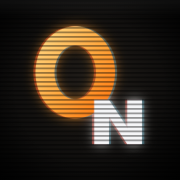
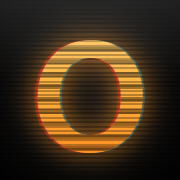
feat: 랜딩 배경(CRT 고전 게임 콜라주), 로고 O에 CRT 효과, 아이콘을 같은 O로, 드라이브 다시 연결은 계정 메뉴로
- 첫 화면 배경: 직접 그린 고전 게임 장르 화면 콜라주(public/landing-bg.jpg, 원본 scripts/art)를 어둡고 흐리게
- 로고 O: 주황 + 주사선·빛 번짐·RGB 어긋남. 파비콘·홈 화면 아이콘도 같은 글꼴의 O를 찍은 PNG (옛 SVG 삭제)
- 헤더의 드라이브 연결 칩 제거, 연결이 끊겼을 때만 계정 메뉴에 "드라이브 다시 연결"

diff --git a/scripts/art/landing-collage.html b/scripts/art/landing-collage.html
@@ -1,0 +1,130 @@
+<!doctype html>
+<html><head><meta charset="utf-8"><style>html,body{margin:0;background:#000}canvas{display:block}</style></head>
+<body><canvas id="out" width="1920" height="1200"></canvas>
+<script>
+// 랜딩 배경 콜라주: 고전 게임 장르를 떠올리게 하는 화면을 직접 그린다 (실제 게임 화면은 저작권 때문에 쓰지 않는다).
+// 각 화면은 160×120 저해상도로 그린 뒤 정수배로 키우고 CRT(주사선, RGB 어긋남, 가장자리 어둡게, 둥근 모서리)를 씌운다.
+let seed = 7;
+const rnd = () => ((seed = (seed * 16807) % 2147483647) / 2147483647);
+const W = 160, H = 120;
+const scene = (draw) => { const c = document.createElement("canvas"); c.width = W; c.height = H; const g = c.getContext("2d"); g.imageSmoothingEnabled = false; draw(g); return c; };
+const rect = (g, c, x, y, w, h) => { g.fillStyle = c; g.fillRect(x, y, w, h); };
+const sprite = (g, rows, x, y, pal) => rows.forEach((r, j) => [...r].forEach((ch, i) => ch !== "." && rect(g, pal[ch], x + i, y + j, 1, 1)));
+
+// 특정 게임 캐릭터를 닮지 않게: 갈색 머리, 청록 옷의 모험가
+const HERO = ["..hhhh..", ".hhhhhh.", ".hsskss.", ".hsssss.", "..ssss..", ".tttttt.", "tttyyttt", "ss.tt.ss", "..pppp..", ".pp..pp."];
+const SHIP = ["....w....", "...wcw...", "...wcw...", "..wwcww..", ".wwrcrww.", "wwwwwwwww", "w.y...y.w"];
+// 적: 둥근 몸에 눈 하나인 해파리
+const ALIEN = ["...ggg...", ".ggggggg.", "gggwwwggg", "ggwwkwwgg", "gggwwwggg", ".ggggggg.", ".g.g.g.g.", "g..g.g..g"];
+
+const scenes = [
+  // 1. 가로 스크롤 플랫포머: 하늘, 구름, 벽돌 땅, 떠 있는 블록, 동전, 주인공
+  scene((g) => {
+    rect(g, "#5c94fc", 0, 0, W, H);
+    for (const [x, y] of [[18, 18], [96, 10], [130, 30]]) { rect(g, "#fff", x, y, 22, 6); rect(g, "#fff", x + 4, y - 4, 12, 4); }
+    rect(g, "#3cbc1c", 0, 86, 50, 6); rect(g, "#2a8c10", 10, 80, 26, 6);
+    for (let x = 0; x < W; x += 8) for (let y = 96; y < H; y += 8) { rect(g, "#c84c0c", x, y, 8, 8); rect(g, "#6b2304", x, y + 7, 8, 1); rect(g, "#6b2304", x + ((y / 8) % 2 ? 0 : 4), y, 1, 8); }
+    for (const x of [60, 68, 76, 84]) { rect(g, "#c84c0c", x, 60, 8, 8); rect(g, "#6b2304", x, 67, 8, 1); }
+    rect(g, "#fc9838", 72, 60, 8, 8); rect(g, "#000", 75, 62, 2, 4);
+    for (const x of [100, 110, 120]) { rect(g, "#fcbc3c", x, 74, 4, 6); rect(g, "#fff", x + 1, 75, 1, 3); }
+    sprite(g, HERO, 30, 86, { h: "#7c4c1c", s: "#fcb468", k: "#000", t: "#1c9c8c", y: "#fcd83c", p: "#3c3c5c" });
+    rect(g, "#00a800", 136, 72, 18, 24); rect(g, "#00d800", 134, 68, 22, 8);
+  }),
+  // 2. 세로 슈팅: 별, 적 편대, 탄, 플레이어 기체
+  scene((g) => {
+    rect(g, "#000018", 0, 0, W, H);
+    for (let i = 0; i < 70; i++) rect(g, rnd() > 0.7 ? "#fff" : "#6070a0", (rnd() * W) | 0, (rnd() * H) | 0, 1, 1);
+    for (let r = 0; r < 3; r++) for (let c = 0; c < 6; c++) sprite(g, ALIEN, 22 + c * 20, 12 + r * 14, { g: ["#3cfc3c", "#fc3cfc", "#3cdcfc"][r], w: "#fff", k: "#000" });
+    for (let i = 0; i < 5; i++) rect(g, "#fcfc54", 40 + i * 22, 62 + (i % 3) * 8, 1, 4);
+    rect(g, "#fc5454", 76, 80, 2, 5);
+    sprite(g, SHIP, 72, 100, { w: "#dcdcdc", c: "#3c8cfc", r: "#fc3c3c", y: "#fcbc00" });
+  }),
+  // 3. RPG 필드: 풀, 강, 숲, 길, 마을, 용사
+  scene((g) => {
+    rect(g, "#3c9c3c", 0, 0, W, H);
+    for (let i = 0; i < 120; i++) rect(g, "#58b858", (rnd() * W) | 0, (rnd() * H) | 0, 2, 1);
+    for (let y = 0; y < H; y++) rect(g, "#2c58d8", 98 + Math.round(Math.sin(y / 9) * 6), y, 18, 1);
+    for (let y = 0; y < H; y += 3) rect(g, "#6c8cfc", 102 + Math.round(Math.sin(y / 9) * 6), y, 4, 1);
+    rect(g, "#c8a058", 0, 58, 104, 8); rect(g, "#a07838", 96, 56, 26, 12);
+    for (let i = 0; i < 16; i++) { const x = 6 + (i % 8) * 10, y = 8 + ((i / 8) | 0) * 12; rect(g, "#105810", x, y, 9, 8); rect(g, "#1c7c1c", x + 1, y + 1, 7, 5); rect(g, "#5c3410", x + 4, y + 8, 2, 3); }
+    for (const [x, y] of [[126, 20], [142, 20], [134, 36]]) { rect(g, "#c84c0c", x, y, 12, 6); rect(g, "#fcfcfc", x + 1, y + 6, 10, 8); rect(g, "#5c3410", x + 5, y + 10, 3, 4); }
+    sprite(g, ["..yy..", ".yssy.", ".ssss.", "bbbbbb", "sbbbbs", ".b..b."], 52, 52, { y: "#fcd800", s: "#fcb468", b: "#d82800" });
+    rect(g, "#000", 20, 84, 120, 30); rect(g, "#fff", 21, 85, 118, 1); rect(g, "#fff", 21, 112, 118, 1); rect(g, "#fff", 21, 85, 1, 28); rect(g, "#fff", 138, 85, 1, 28);
+    for (let i = 0; i < 14; i++) rect(g, "#fff", 28 + i * 8, 92, 5, 3); for (let i = 0; i < 9; i++) rect(g, "#fff", 28 + i * 8, 100, 5, 3);
+  }),
+  // 4. 블록 퍼즐: 우물, 떨어지는 블록, 쌓인 줄
+  scene((g) => {
+    rect(g, "#101028", 0, 0, W, H);
+    rect(g, "#5050a0", 48, 4, 64, 112); rect(g, "#000", 52, 4, 56, 108);
+    const cols = ["#fc3c3c", "#3cfc3c", "#3c8cfc", "#fcfc3c", "#fc8c3c", "#c83cfc", "#3cfcfc"];
+    const cell = (x, y, c) => { rect(g, c, 52 + x * 7, 4 + y * 7, 7, 7); rect(g, "#fff8", 52 + x * 7, 4 + y * 7, 6, 1); rect(g, "#0006", 52 + x * 7, 10 + y * 7, 7, 1); };
+    for (let y = 10; y < 15; y++) for (let x = 0; x < 8; x++) if (rnd() > 0.18 || y === 14) cell(x, y, cols[(x + y * 3) % 7]);
+    [[3, 2], [4, 2], [5, 2], [4, 3]].forEach(([x, y]) => cell(x, y, "#c83cfc"));
+    rect(g, "#5050a0", 118, 10, 34, 30); rect(g, "#000", 120, 12, 30, 26); [[0, 0], [1, 0], [1, 1], [2, 1]].forEach(([x, y]) => { rect(g, "#fc3c3c", 124 + x * 7, 18 + y * 7, 7, 7); });
+    for (let i = 0; i < 6; i++) rect(g, "#fff", 120 + i * 5, 50, 3, 5);
+  }),
+  // 5. 레이싱: 하늘, 산, 원근 도로
+  scene((g) => {
+    for (let y = 0; y < 50; y++) rect(g, `rgb(${60 + y * 2},${120 + y},${220})`, 0, y, W, 1);
+    for (let x = 0; x < W; x++) { const h = 14 + Math.round(Math.abs(Math.sin(x / 13)) * 12 + Math.sin(x / 5) * 2); rect(g, "#4c6c8c", x, 50 - h, 1, h); }
+    rect(g, "#1c8c1c", 0, 50, W, 70);
+    for (let y = 50; y < H; y++) { const t = (y - 50) / 70, w = 8 + t * 150, cx = 80 + Math.sin(t * 3) * 10 * (1 - t); rect(g, ((y / 4) | 0) % 2 ? "#fff" : "#fc3c3c", cx - w / 2 - 4 * t - 2, y, 4 * t + 2, 1); rect(g, "#505058", cx - w / 2, y, w, 1); if (((y / 3) | 0) % 2) rect(g, "#fff", cx - 1, y, 2, 1); rect(g, ((y / 4) | 0) % 2 ? "#fff" : "#fc3c3c", cx + w / 2, y, 4 * t + 2, 1); }
+    rect(g, "#d82800", 66, 96, 28, 12); rect(g, "#fc5c3c", 70, 92, 20, 6); rect(g, "#000", 64, 104, 8, 6); rect(g, "#000", 88, 104, 8, 6); rect(g, "#3cdcfc", 72, 93, 16, 3);
+  }),
+  // 6. 벽돌깨기: 벽돌, 공, 패들
+  scene((g) => {
+    rect(g, "#000", 0, 0, W, H);
+    const cols = ["#fc3c3c", "#fc8c3c", "#fcfc3c", "#3cfc3c", "#3c8cfc", "#c83cfc"];
+    for (let r = 0; r < 6; r++) for (let c = 0; c < 13; c++) if (!(r === 4 && c > 5 && c < 9) && !(r === 5 && c > 3 && c < 11)) { rect(g, cols[r], 2 + c * 12, 12 + r * 6, 11, 5); rect(g, "#fff6", 2 + c * 12, 12 + r * 6, 11, 1); }
+    rect(g, "#fff", 92, 70, 3, 3); for (let i = 1; i < 6; i++) rect(g, "#ffffff22", 92 - i * 4, 70 + i * 4, 3, 3);
+    rect(g, "#dcdcdc", 58, 108, 30, 4); rect(g, "#3c8cfc", 58, 108, 4, 4); rect(g, "#3c8cfc", 84, 108, 4, 4);
+    for (let i = 0; i < 3; i++) rect(g, "#fff", 4 + i * 6, 3, 4, 4);
+  }),
+  // 7. DOS 전략 RPG: 격자 전장, 유닛, 정보 창
+  scene((g) => {
+    rect(g, "#002", 0, 0, W, H);
+    for (let y = 0; y < 8; y++) for (let x = 0; x < 12; x++) rect(g, (x + y) % 2 ? "#2c5c2c" : "#346c34", 4 + x * 10, 4 + y * 10, 10, 10);
+    for (const [x, y, c] of [[2, 3, "#3c8cfc"], [3, 4, "#3c8cfc"], [8, 2, "#fc3c3c"], [9, 5, "#fc3c3c"], [7, 4, "#fc3c3c"]]) { rect(g, c, 6 + x * 10, 5 + y * 10, 6, 8); rect(g, "#fcb468", 7 + x * 10, 5 + y * 10, 4, 3); }
+    for (let i = 0; i < 4; i++) rect(g, "#fcfc3c88", 34 + i * 10, 44, 10, 10);
+    rect(g, "#000080", 4, 86, 152, 30); rect(g, "#a8a8fc", 4, 86, 152, 1); rect(g, "#a8a8fc", 4, 115, 152, 1);
+    rect(g, "#fcb468", 8, 90, 18, 22); rect(g, "#5c3410", 8, 90, 18, 6); rect(g, "#000", 12, 98, 2, 2); rect(g, "#000", 20, 98, 2, 2);
+    for (let i = 0; i < 12; i++) rect(g, "#fff", 32 + i * 8, 92, 5, 3); rect(g, "#fc3c3c", 32, 102, 60, 4); rect(g, "#3cfc3c", 32, 108, 44, 4);
+  }),
+  // 8. 대전 격투: 도시 배경, 두 캐릭터, 체력 바
+  scene((g) => {
+    for (let y = 0; y < 70; y++) rect(g, `rgb(${120 + y},${60 + y / 2},${100})`, 0, y, W, 1);
+    for (let x = 0; x < W; x += 14) { const h = 20 + ((x * 37) % 30); rect(g, "#2c1c3c", x, 70 - h, 13, h); for (let wy = 74 - h; wy < 66; wy += 6) rect(g, "#fcd83c", x + 3 + ((wy * 3) % 6), wy, 2, 2); }
+    rect(g, "#6c4c2c", 0, 70, W, 50); for (let x = 0; x < W; x += 16) rect(g, "#5c3c1c", x, 70, 1, 50);
+    rect(g, "#fff", 30, 54, 10, 30); rect(g, "#fcb468", 31, 46, 8, 8); rect(g, "#d82800", 30, 60, 10, 3); rect(g, "#fff", 40, 60, 14, 4);
+    rect(g, "#3c5cfc", 112, 54, 10, 30); rect(g, "#fcb468", 113, 46, 8, 8); rect(g, "#fcd800", 112, 44, 10, 3);
+    rect(g, "#fcfc3c", 6, 6, 60, 5); rect(g, "#fc3c3c", 46, 6, 20, 5); rect(g, "#fcfc3c", 94, 6, 60, 5); rect(g, "#fff", 74, 4, 12, 9);
+  }),
+];
+
+// CRT를 씌운 화면 하나를 그린다 (정수배 확대 + 주사선 + RGB 어긋남 + 가장자리 어둡게 + 둥근 모서리)
+function crtTile(src, scale) {
+  const w = W * scale, h = H * scale, c = document.createElement("canvas"); c.width = w; c.height = h;
+  const g = c.getContext("2d"); g.imageSmoothingEnabled = false;
+  g.beginPath(); g.roundRect(0, 0, w, h, 26); g.clip();
+  g.globalAlpha = 1; g.drawImage(src, 0, 0, w, h);
+  g.globalCompositeOperation = "screen"; g.globalAlpha = 0.25; g.drawImage(src, -2, 0, w, h); g.drawImage(src, 2, 0, w, h);
+  g.globalCompositeOperation = "source-over"; g.globalAlpha = 1;
+  for (let y = 0; y < h; y += scale) { g.fillStyle = "rgba(0,0,0,.35)"; g.fillRect(0, y + scale - 2, w, 2); }
+  const v = g.createRadialGradient(w / 2, h / 2, h * 0.3, w / 2, h / 2, w * 0.62); v.addColorStop(0, "rgba(0,0,0,0)"); v.addColorStop(1, "rgba(0,0,0,.75)"); g.fillStyle = v; g.fillRect(0, 0, w, h);
+  const s = g.createLinearGradient(0, 0, 0, h * 0.5); s.addColorStop(0, "rgba(255,255,255,.12)"); s.addColorStop(1, "rgba(255,255,255,0)"); g.fillStyle = s; g.fillRect(0, 0, w, h);
+  return c;
+}
+
+const out = document.getElementById("out"), o = out.getContext("2d");
+o.fillStyle = "#07070c"; o.fillRect(0, 0, out.width, out.height);
+const tiles = scenes.map((s) => crtTile(s, 3)); // 480×360
+// 4×3 격자에 살짝 기울여 겹치게 깐다 (한 줄씩 엇갈리게)
+// 옆·위아래에 같은 화면이 오지 않게 섞는다
+for (let r = 0; r < 4; r++) for (let c = 0; c < 5; c++) {
+  const t = tiles[(c * 3 + r * 5) % tiles.length];
+  const x = c * 420 - 120 + (r % 2) * 200, y = r * 330 - 90;
+  o.save(); o.translate(x + 240, y + 180); o.rotate((rnd() - 0.5) * 0.12);
+  o.shadowColor = "rgba(0,0,0,.7)"; o.shadowBlur = 30; o.drawImage(t, -240, -180); o.restore();
+}
+document.title = "done";
+</script></body></html>

diff --git a/src/style.css b/src/style.css
@@ -384,6 +384,17 @@ li.remote .thumb img { filter: saturate(0.6); }
 /* 로고: RETRO 아래 줄 끝(O 밑)에 N */
 .logo { display: inline-flex; flex-direction: column; align-items: flex-end; line-height: 0.82; font-weight: 800; letter-spacing: -0.01em; user-select: none; }
 .logo em { font-style: normal; color: var(--tint); }
+/* 로고의 O: 주황 글자에 CRT 효과 (주사선 + 빛 번짐 + RGB 어긋남). 아이콘(public/favicon.png)도 이 O를 그대로 찍은 것이다.
+   글자로 그려서 기기마다 나머지 글자(RETR, N)와 같은 글꼴로 나온다 */
+.logo em {
+  display: inline-block; color: transparent;
+  padding: 0.1em 0; margin: -0.1em 0; /* 줄 간격(0.82)보다 글자가 커서, 칠하는 영역을 위아래로 넓혀야 O 아래가 잘리지 않는다 */
+  background-image: repeating-linear-gradient(180deg, rgba(0, 0, 0, 0.38) 0 0.032em, transparent 0.032em 0.082em), linear-gradient(180deg, #ffcf72, #ffb340 50%, #ff8a1e);
+  -webkit-background-clip: text; background-clip: text;
+  filter: drop-shadow(-0.018em 0 0 rgba(255, 42, 16, 0.55)) drop-shadow(0.018em 0 0 rgba(30, 200, 255, 0.35)) drop-shadow(0 0 0.09em rgba(255, 154, 46, 0.75));
+}
+/* 위쪽 막대의 작은 로고: 주사선은 너무 촘촘해 뭉개지므로 빛 번짐만 */
+.logo.small em { background-image: linear-gradient(180deg, #ffcf72, #ffb340 50%, #ff8a1e); filter: drop-shadow(0 0 0.12em rgba(255, 154, 46, 0.6)); }
 .logo.large { font-size: clamp(56px, 16vw, 112px); }
 .logo.small { font-size: 21px; }
 .logo .n { margin-top: 0.02em; }
@@ -453,10 +464,8 @@ button.add { white-space: nowrap; }
 .settings > .row.end { margin-top: 0; padding-top: 14px; border-top: 1px solid rgba(255, 255, 255, 0.08); }
 @media (max-width: 600px) { .dialog.settings { padding: 20px 18px 18px; } }
 
-/* 드라이브 연결이 끊겼을 때 헤더의 다시 연결 버튼 (오프라인이면 안내만) */
-.drive-chip { padding: 7px 14px; font-size: 13px; font-weight: 600; white-space: nowrap; color: var(--tint); background: rgba(255, 179, 64, 0.14); border: 1px solid rgba(255, 179, 64, 0.5); border-radius: 999px; }
-.drive-chip.offline { color: var(--muted); background: rgba(255, 255, 255, 0.06); border-color: rgba(255, 255, 255, 0.14); font-weight: 500; }
-@media (max-width: 600px) { .drive-chip { padding: 6px 10px; font-size: 12px; } }
+/* 계정 메뉴: 드라이브 연결이 끊겼을 때 다시 연결 */
+.popover.account .reconnect { margin-top: 2px; padding: 8px 12px; align-items: center; color: var(--tint); background: rgba(255, 179, 64, 0.12); border: 1px solid rgba(255, 179, 64, 0.4); }
 
 /* 로딩 고리 */
 .spinner { display: inline-block; width: 28px; height: 28px; border-radius: 50%; border: 3px solid rgba(255, 255, 255, 0.18); border-top-color: var(--tint); animation: spin 0.8s linear infinite; flex-shrink: 0; vertical-align: middle; box-sizing: border-box; }
@@ -484,5 +493,18 @@ button.add { white-space: nowrap; }
 .vpad-dpad.on-light path.on { fill: rgba(255, 179, 64, 0.8); stroke: #c77800; }
 .vpad-stick.on-light { background: radial-gradient(circle, rgba(255, 255, 255, 0.35) 0 40%, rgba(255, 255, 255, 0.55) 100%); border-color: rgba(0, 0, 0, 0.18); }
 .vpad-stick.on-light .knob { background: radial-gradient(circle at 35% 30%, #fff, rgba(235, 235, 240, 0.9) 70%); border-color: rgba(0, 0, 0, 0.2); }
-.drive-chip.on-light { color: #9a5a00; background: rgba(255, 255, 255, 0.7); border-color: rgba(154, 90, 0, 0.45); }
 .privacy-link { color: var(--muted); text-decoration: underline; text-underline-offset: 3px; }
+
+/* 첫 화면 배경: CRT 고전 게임 콜라주(public/landing-bg.jpg)를 어둡고 흐리게 깔고, 화면 전체에 주사선·가장자리 어둠을 한 겹 더 */
+.landing { position: relative; isolation: isolate; overflow: hidden; }
+.landing::before {
+  content: ""; position: absolute; inset: -3%; z-index: -2; pointer-events: none;
+  background: var(--landing-bg) center / cover no-repeat; opacity: 0.2; filter: blur(1.5px) saturate(0.85);
+  animation: landing-drift 60s ease-in-out infinite alternate;
+}
+.landing::after {
+  content: ""; position: absolute; inset: 0; z-index: -1; pointer-events: none;
+  background: radial-gradient(ellipse at center, rgba(7, 7, 12, 0.35) 0%, rgba(7, 7, 12, 0.92) 78%), repeating-linear-gradient(180deg, rgba(0, 0, 0, 0.3) 0 1px, transparent 1px 3px);
+}
+@keyframes landing-drift { to { transform: translate3d(-2%, -1.5%, 0) scale(1.04); } }
+@media (prefers-reduced-motion: reduce) { .landing::before { animation: none; } }

diff --git a/src/screens/games/LibraryHeader.tsx b/src/screens/games/LibraryHeader.tsx
@@ -53,7 +53,7 @@ function AccountMenu() {
   const label = sync.conflict
     ? "세이브 충돌이 있습니다"
     : !auth.driveReady
-      ? `드라이브 연결 안 됨 · 기기에 저장 중${sync.pending ? ` (올릴 세이브 ${sync.pending}개)` : ""}`
+      ? `${navigator.onLine ? "드라이브 연결 안 됨" : "오프라인"} · 기기에 저장 중${sync.pending ? ` (올릴 세이브 ${sync.pending}개)` : ""}`
       : sync.pending
         ? `드라이브에 올릴 세이브 ${sync.pending}개`
         : "드라이브와 동기화됨";
@@ -65,6 +65,12 @@ function AccountMenu() {
       <Popover open={open} onClose={() => setOpen(false)} class="account">
         <strong class="email">{auth.email}</strong>
         <span class={`sync-line ${state}`}>{label}</span>
+        {/* 드라이브 연결이 끊겼을 때만 (보통은 서버가 조용히 다시 이어 준다. 권한을 거뒀거나 오래 안 쓴 경우) */}
+        {!auth.driveReady && navigator.onLine && (
+          <button class="reconnect" disabled={auth.busy} onClick={() => void reconnectDrive().catch(() => undefined)}>
+            드라이브 다시 연결
+          </button>
+        )}
         <StorageLine />
         <Row label="모바일 데이터로 게임 안 올리기">
           <Segmented value={wifiOnlyUpload ? "on" : "off"} options={[...ON_OFF]} onChange={(v) => setPrefs({ wifiOnlyUpload: v === "on" })} label="모바일 데이터로 게임 안 올리기" />
@@ -92,34 +98,11 @@ function AccountMenu() {
   );
 }
 
-/**
- * 드라이브 토큰이 끊겼을 때(1시간이 지났거나 오프라인으로 시작) 다시 연결하는 버튼.
- * 구글 창은 사용자가 누른 순간에만 띄울 수 있어서 저절로 다시 연결하지 못한다. 연결 전까지는 기기에 저장해 둔다
- */
-function ReconnectButton() {
-  const auth = useAuth();
-  const [online, setOnline] = useState(navigator.onLine);
-  useEffect(() => {
-    const update = () => setOnline(navigator.onLine);
-    addEventListener("online", update);
-    addEventListener("offline", update);
-    return () => (removeEventListener("online", update), removeEventListener("offline", update));
-  }, []);
-  if (!auth.signedIn || auth.driveReady) return null;
-  if (!online) return <span class="drive-chip offline">오프라인 · 기기에 저장 중</span>;
-  return (
-    <button class="drive-chip" disabled={auth.busy} onClick={() => void reconnectDrive().catch(() => undefined)} title="연결 전까지 세이브와 설정은 이 기기에 저장해 두고, 연결되면 올립니다">
-      드라이브 연결
-    </button>
-  );
-}
-
 export function LibraryHeader({ picker, busy }: { picker: ReturnType<typeof useAddPicker>; busy: boolean }) {
   return (
     <header class="glass">
       <Logo size="small" />
       <div class="actions">
-        <ReconnectButton />
         <button class="primary add" disabled={busy} onClick={picker.open}>
           + 게임 추가
         </button>

diff --git a/scripts/art/icon-o.html b/scripts/art/icon-o.html
@@ -1,0 +1,15 @@
+<!doctype html><html><head><meta charset="utf-8"><style>
+/* 아이콘: 랜딩 로고와 같은 글꼴·같은 O 스타일 (src/style.css의 .logo em) */
+html,body{margin:0;width:100vw;height:100vh;background:transparent;overflow:hidden}
+.screen{position:relative;width:100vw;height:100vh;border-radius:var(--r,0);overflow:hidden;display:grid;place-items:center;
+  background:radial-gradient(72% 72% at 50% 46%,#211d19,#0e0d0c 65%,#040404);
+  font-family:-apple-system,BlinkMacSystemFont,"SF Pro Display","Apple SD Gothic Neo","Pretendard",system-ui,sans-serif;font-weight:800;letter-spacing:-0.01em}
+em{font-style:normal;display:inline-block;color:transparent;font-size:84vh;line-height:.82;padding:.1em 0;margin:-.1em 0;transform:translateY(-0.02em);
+  background-image:repeating-linear-gradient(180deg,rgba(0,0,0,.38) 0 .032em,transparent .032em .082em),linear-gradient(180deg,#ffcf72,#ffb340 50%,#ff8a1e);
+  -webkit-background-clip:text;background-clip:text;
+  filter:drop-shadow(-.018em 0 0 rgba(255,42,16,.55)) drop-shadow(.018em 0 0 rgba(30,200,255,.35)) drop-shadow(0 0 .09em rgba(255,154,46,.75))}
+/* 화면 전체 주사선, 가장자리 어둡게, 유리 반사 */
+.screen::after{content:"";position:absolute;inset:0;pointer-events:none;
+  background:linear-gradient(180deg,rgba(255,255,255,.12),transparent 45%),radial-gradient(74% 74% at 50% 50%,transparent 55%,rgba(0,0,0,.8)),repeating-linear-gradient(180deg,rgba(0,0,0,.28) 0 1.05%,transparent 1.05% 2.5%)}
+</style></head><body><div class="screen" id="s"><em id="i">O</em></div>
+<script>if(location.hash==="#round")document.getElementById("s").style.setProperty("--r","22.6%")</script></body></html>

diff --git a/src/screens/Landing.tsx b/src/screens/Landing.tsx
@@ -4,11 +4,15 @@ import { signIn, useAuth } from "../cloud/google-auth";
 import { Logo } from "../ui/Logo";
 import { Spinner } from "../ui/Spinner";
 
+// 배경: 고전 게임 장르 화면을 직접 그려 CRT를 씌운 콜라주 (scripts/art/landing-collage.html을 브라우저로 열어 1920×1200으로 찍은 것).
+// 실제 게임 화면은 저작권 때문에 쓰지 않는다
+const BG = { "--landing-bg": `url("${import.meta.env.BASE_URL}landing-bg.jpg")` };
+
 export function Landing({ loading }: { loading?: boolean }) {
   const auth = useAuth();
   if (loading)
     return (
-      <div class="landing">
+      <div class="landing" style={BG}>
         <Logo />
         <div class="landing-loading">
           <Spinner />
@@ -17,7 +21,7 @@ export function Landing({ loading }: { loading?: boolean }) {
       </div>
     );
   return (
-    <div class="landing">
+    <div class="landing" style={BG}>
       <Logo />
       <button class="google-signin" disabled={auth.busy} onClick={() => void signIn().catch(() => undefined)}>
         <svg viewBox="0 0 48 48" aria-hidden="true">

diff --git a/src/ui/adaptive-contrast.ts b/src/ui/adaptive-contrast.ts
@@ -8,7 +8,7 @@
 /** rect(화면 좌표) 뒤의 평균 밝기(0~1)와, rect 중 그것이 덮는 비율(0~1). 겹치지 않으면 null */
 export type LumaSource = (rect: DOMRect) => { luma: number; cover: number } | null;
 
-const SELECTOR = "header.glass, .more, .toast, .vpad-btn, .vkeys button, .vpad-dpad, .vpad-stick, .floating-bar .quick, .drive-chip";
+const SELECTOR = "header.glass, .more, .toast, .vpad-btn, .vkeys button, .vpad-dpad, .vpad-stick, .floating-bar .quick";
 const BACKGROUND = 0.03; // 앱 배경 (#07070c, 게임 바깥 검정)
 const ON = 0.56; // 이보다 밝아지면 밝은 유리로
 const OFF = 0.44; // 이보다 어두워지면 되돌린다 (경계에서 깜빡이지 않게)

diff --git a/index.html b/index.html
@@ -6,8 +6,8 @@
     <meta name="mobile-web-app-capable" content="yes" />
     <meta name="apple-mobile-web-app-capable" content="yes" />
     <title>RETRON</title>
-    <!-- 아이콘: 주황 O에 CRT 효과 (원본 SVG는 public/favicon.svg) -->
-    <link rel="icon" href="./favicon.svg" type="image/svg+xml" />
+    <!-- 아이콘: 로고의 주황 O + CRT 효과 (원본은 scripts/art/icon-o.html) -->
+    <link rel="icon" href="./favicon.png" type="image/png" />
     <link rel="apple-touch-icon" href="./apple-touch-icon.png" />
     <link rel="manifest" href="./manifest.webmanifest" />
     <meta name="theme-color" content="#07070c" />

diff --git a/src/ui/Logo.tsx b/src/ui/Logo.tsx
@@ -1,4 +1,4 @@
-// 로고: RETRO 아래 줄 끝(O 밑)에 N이 내려앉은 모양. O만 강조색.
+// 로고: RETRO 아래 줄 끝(O 밑)에 N이 내려앉은 모양. O만 주황 + CRT 효과 (아이콘과 같은 O).
 export function Logo({ size = "large" }: { size?: "large" | "small" }) {
   return (
     <span class={`logo ${size}`} role="img" aria-label="retron">

diff --git a/scripts/art/README.md b/scripts/art/README.md
@@ -1,0 +1,6 @@
+# 그림 원본
+
+- `icon-o.html`: 아이콘(주황 O + CRT). 랜딩 로고의 O와 같은 글꼴·같은 효과(src/style.css의 `.logo em`). 브라우저 창을 정사각형(120, 180, 192, 512)으로 맞춰 찍으면 `public/*.png`가 된다. `#round`를 붙이면 둥근 모서리
+- `landing-collage.html`: 첫 화면 배경(`public/landing-bg.jpg`). 고전 게임 장르 화면 여덟 가지를 직접 그려 CRT를 씌운 콜라주. 1920×1200으로 찍어 JPG(품질 72)로 저장
+
+찍은 PNG는 꼭 열어서 그림이 보이는지 확인한다 (about:blank 페이지에서 file:// 이미지를 불러오면 깨진 그림이 찍힌다).
